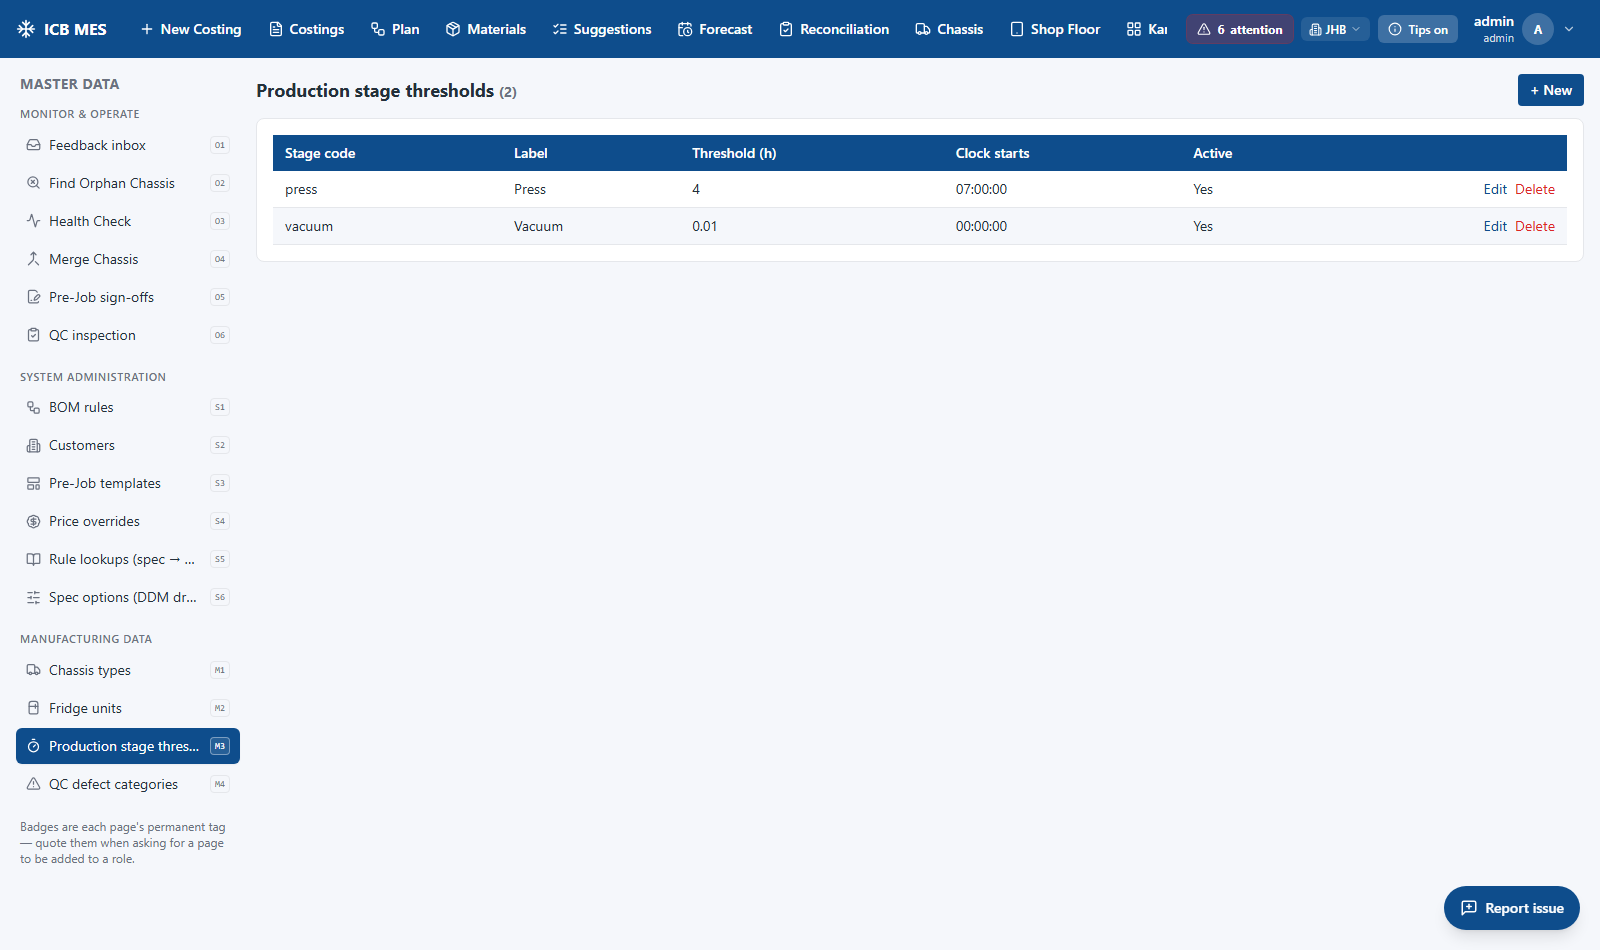
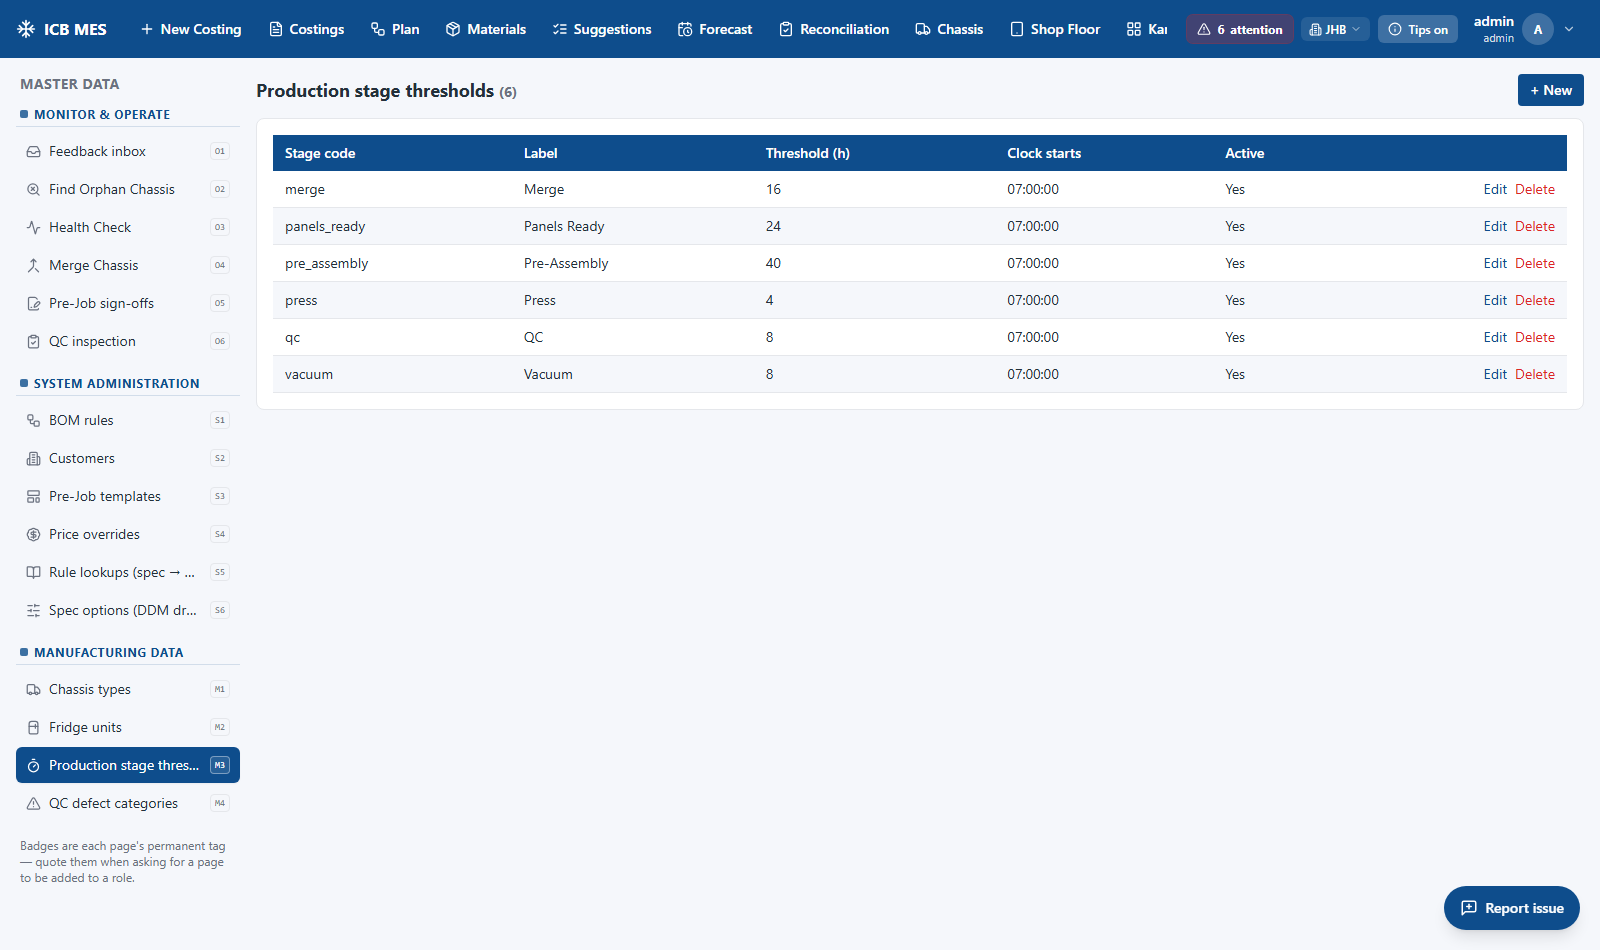
admin-md — seed the downstream floor stages in 0036 (Michael, 9 Jul): Panels Ready / Pre-Assembly / Merge / QC
Capture-ready rows with PLACEHOLDER hours (24/40/16/8 @ 07:00) for the admin to
edit — the stage-generic table takes them as pure seed rows, no schema or code
change. Inert for progress bars by design: stage_key_for only maps V/P lanes,
and downstream bars wait on floor-doc entry timestamps (v1.40.0 §9 phase).
0036 is unmerged so amending its seed is clean; dev DB hand-seeded with the
same idempotent INSERT; M3 page verified rendering all 6 rows.

diff --git a/backend/alembic/versions/0036_production_stage_thresholds.py b/backend/alembic/versions/0036_production_stage_thresholds.py
@@ -43,13 +43,20 @@ def upgrade() -> None:
     if not _have(bind):
         from app.database import Base
         Base.metadata.create_all(bind=bind, tables=[_table_obj()])
-    # Seed the two ratified stages (Michael's example values). ON CONFLICT keeps
-    # re-runs and already-seeded DBs untouched — admin edits are never clobbered.
+    # Seed the ratified V/P stages (Michael's example values) plus the downstream floor
+    # stages (Michael, 9 Jul — capture-ready rows; their hours are PLACEHOLDERS for the
+    # admin to edit, and no bars render for them until the floor document carries entry
+    # timestamps — the v1.40.0 §9 event-integration phase). ON CONFLICT keeps re-runs and
+    # already-seeded DBs untouched — admin edits are never clobbered.
     op.execute(sa_text(
         "INSERT INTO icb_mes.production_stage_thresholds "
         "(stage_code, label, threshold_hours, workday_start, is_active, version, created_by) VALUES "
-        "('vacuum', 'Vacuum', 8.00, '07:00:00', true, 1, 'migration_0036'), "
-        "('press',  'Press',  4.00, '07:00:00', true, 1, 'migration_0036') "
+        "('vacuum',        'Vacuum',        8.00,  '07:00:00', true, 1, 'migration_0036'), "
+        "('press',         'Press',         4.00,  '07:00:00', true, 1, 'migration_0036'), "
+        "('panels_ready',  'Panels Ready',  24.00, '07:00:00', true, 1, 'migration_0036'), "
+        "('pre_assembly',  'Pre-Assembly',  40.00, '07:00:00', true, 1, 'migration_0036'), "
+        "('merge',         'Merge',         16.00, '07:00:00', true, 1, 'migration_0036'), "
+        "('qc',            'QC',            8.00,  '07:00:00', true, 1, 'migration_0036') "
         "ON CONFLICT (stage_code) DO NOTHING"
     ))
 

diff --git a/docs/adr/0035-admin-master-data-groups-and-stage-thresholds.md b/docs/adr/0035-admin-master-data-groups-and-stage-thresholds.md
@@ -45,9 +45,13 @@ FeedbackInbox joined the module as O1 (URL unchanged — `/admin/feedback` now r
 `/admin/:resource`).
 
 ### 2. Production-stage thresholds: stage-generic table, per-row workday_start
-`icb_mes.production_stage_thresholds` (migration 0036): `stage_code` UNIQUE ('vacuum','press'
-seeded at 8h/4h), `threshold_hours` NUMERIC CHECK > 0, `workday_start` TIME default 07:00,
-`is_active`, audit cols. Future stages (assembly, qc…) are **new rows, not schema changes**.
+`icb_mes.production_stage_thresholds` (migration 0036): `stage_code` UNIQUE, `threshold_hours`
+NUMERIC CHECK > 0, `workday_start` TIME default 07:00, `is_active`, audit cols. Seeded stages:
+vacuum 8h / press 4h (Michael's ratified examples) plus — added mid-review at Michael's request —
+the downstream floor stages as **capture-ready rows with placeholder hours** (panels_ready 24h,
+pre_assembly 40h, merge 16h, qc 8h; the admin edits the real values). Only vacuum/press drive live
+bars this release: the downstream rows are inert until the floor document carries per-item entry
+timestamps (the §9 event-integration phase). Future stages remain **new rows, not schema changes**.
 `stage_code` is deliberately decoupled from `planning_slots.lane` strings — the mapping
 (`'panelshop'` → `'press'`, bay-prefix fallback) lives in ONE place,
 `plan_status.stage_key_for`, shared by the floor-status derivation and the board clock.
